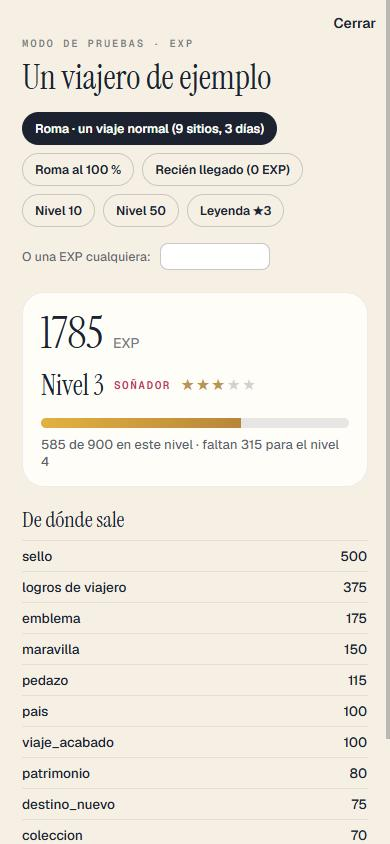
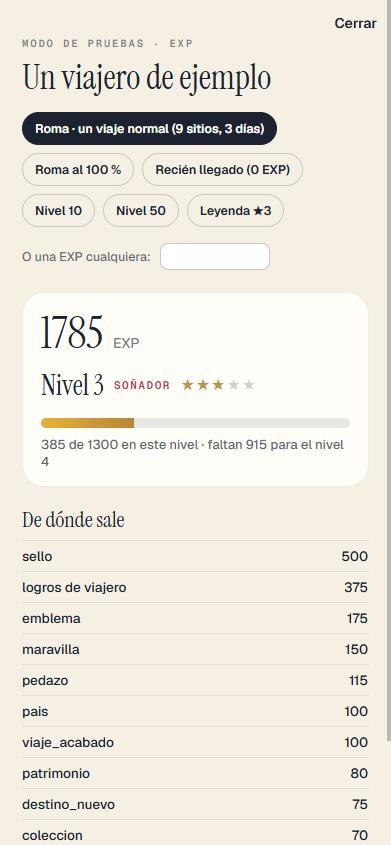
feat(logros): EXP, costes de nivel nuevos (500, 900, 1.300, 1.700, 2.100 y 2.500 desde el nivel 6; nivel 50 en 116.500, Leyenda 1 en 119.500), pruebas con los limites nuevos, Roma nivel 3 normal y nivel 4 al 100 %, capturas del panel rehechas

diff --git a/docs/dias/INFORME_TANDA8C1.md b/docs/dias/INFORME_TANDA8C1.md
@@ -24,7 +24,7 @@ Destinos 25 «Pasión por el mundo» y 30 «Alma de explorador» · Patrimonios 
 - **Cómo se calcula:** se suma lo que ya ha conseguido el viajero (sus hechos y lo ganado): paradas vistas con ubicación o foto (5, máximo 50 al día), pedazos, colecciones (10 por pedazo), emblemas, maravillas, sellos (los del Vaticano aparte), país, destino, Patrimonio, viaje acabado (5 paradas o más y el último día ya pasado: 100) y los logros de viajero con su escalera de EXP. Los viajes de antes de la app dan 0; lo apagado, 0.
 - **Nunca baja:** la mayor EXP que ha tenido se guarda (`logro_perfil.exp_max`, migración 0025) y el total es siempre lo mayor entre lo calculado y eso. Probado: se baja la tabla y a nadie le sale menos.
 - **Con fecha:** cada EXP lleva su fecha; el servidor la tiene por año (`por_anio`) para el sorteo y la tienda.
-- **Niveles:** 50 en 10 rangos de 5 (Soñador, Explorador, Viajero, Trotamundos, Aventurero, Nómada, Cartógrafo, Embajador, Navegante, Leyenda); subir cuesta 500, 700, 900… (+200) hasta el nivel 11 y desde ahí 2.500. El nivel 50 se alcanza con 111.500 EXP; **Leyenda ★1 a los 114.500** (una estrella cada 3.000, sin final): así he entendido «después del 50».
+- **Niveles:** 50 en 10 rangos de 5 (Soñador, Explorador, Viajero, Trotamundos, Aventurero, Nómada, Cartógrafo, Embajador, Navegante, Leyenda); subir cuesta 500, 900, 1.300, 1.700 y 2.100 y, desde el nivel 6, 2.500 cada nivel (cambio de Eric, 18-oct). El nivel 50 se alcanza con 116.500 EXP; **Leyenda ★1 a los 119.500** (una estrella cada 3.000, sin final): así he entendido «después del 50».
 - **Lo que manda el servidor al móvil:** `GET /api/logros/exp` y `estado` → EXP total, nivel, rango, estrellas, EXP dentro del nivel, coste del nivel y lo que falta. En cada Visto o foto: `exp` por momento, `sube_de_nivel` por momento, y `exp` de la respuesta (`ganada`, `antes`, `despues`, `sube_de_nivel`). El móvil ya sabe leerlo; **no hay pantalla** (llegará con Design).
 - **Invitaciones:** la regla está hecha y probada (100 EXP al que invita cuando su amigo **acaba su primer viaje**, no al crear la cuenta; máximo 10 al año, por año natural). Falta lo de abajo.
 - **Sorteo (solo la regla):** nivel 3 o más y al menos un viaje acabado ese año. En `/?admin=logros`, pestaña **Sorteo**: cuántos entran y la lista, solo con el id corto de cada cuenta (ningún nombre ni correo).
@@ -50,7 +50,7 @@ Destinos 25 «Pasión por el mundo» y 30 «Alma de explorador» · Patrimonios 
 ## Las cuentas de EXP de Roma
 Con la tabla de `EXP_Y_NIVELES.md` tal cual (mismas funciones en la prueba y en el panel):
 - **Un viaje normal** (3 días y 2 noches, 9 sitios: Coliseo, Foro, Trevi, Panteón, Navona, Plaza de España, Museos Vaticanos, San Pedro y su plaza, con foto en todos): **1.785 EXP, nivel 3** (de 1.200 a 2.099). El documento decía «unos 1.400, nivel 3»: el nivel sale igual; la cifra es mayor porque con 9 sitios ya sale el sello de Roma en oro y el del Vaticano en diamante (500), los emblemas (175), los dos países (100) y 375 de logros de viajero (Escapada, El fotógrafo, {Ciudad} {año} y los primeros escalones), más 100 del viaje acabado. Desglose: sellos 500 · logros de viajero 375 · emblemas 175 · maravilla 150 · pedazos 115 · países 100 · viaje acabado 100 · Patrimonios 80 · destino 75 · colecciones 70 · paradas 45.
-- **Roma al 100 %** (los 37 sitios de las colecciones y los emblemas, con Madrugador y Nocturno, un viaje de 10 noches): **3.930 EXP, nivel 5** (el 5 empieza en 3.200). El documento decía «unos 2.870, nivel 4». Desglose: pedazos 260 · colecciones 520 · sellos 700 · emblemas 300 · países 100 · destino 75 · maravilla 150 · Patrimonios 80 = **2.185** (lo que el documento cuenta seguro); + logros de viajero **1.450** (Cazador de emblemas y Coleccionista, 5 y 10: 500; Conocedor 25: 175; Diamante a la primera 150; {Ciudad} al completo 100; Gran viaje 100; De sol a sol 100; El fotógrafo 75; Dos países en un día 50; {Ciudad} {año} 50; y 25 de cada primer escalón de Países, Destinos, Maravillas, Patrimonios, Viajes y Con quién viajas: 150) + paradas vistas **195** (39 paradas) + viaje acabado **100**. Los 685 que el documento le deja sobre 2.185 no cubren todos esos logros; si «Roma al 100 %» no debe incluir Cazador, Coleccionista, Conocedor y los demás, dímelo y lo ajusto en `exp.json`.
+- **Roma al 100 %** (los 37 sitios de las colecciones y los emblemas, con Madrugador y Nocturno, un viaje de 10 noches): **3.930 EXP, nivel 4** (el 4 va de 2.700 a 4.399). El documento decía «unos 2.870, nivel 4». Desglose: pedazos 260 · colecciones 520 · sellos 700 · emblemas 300 · países 100 · destino 75 · maravilla 150 · Patrimonios 80 = **2.185** (lo que el documento cuenta seguro); + logros de viajero **1.450** (Cazador de emblemas y Coleccionista, 5 y 10: 500; Conocedor 25: 175; Diamante a la primera 150; {Ciudad} al completo 100; Gran viaje 100; De sol a sol 100; El fotógrafo 75; Dos países en un día 50; {Ciudad} {año} 50; y 25 de cada primer escalón de Países, Destinos, Maravillas, Patrimonios, Viajes y Con quién viajas: 150) + paradas vistas **195** (39 paradas) + viaje acabado **100**. Los 685 que el documento le deja sobre 2.185 no cubren todos esos logros; si «Roma al 100 %» no debe incluir Cazador, Coleccionista, Conocedor y los demás, dímelo y lo ajusto en `exp.json`.
 - **Sin el continente ni «Todos los secretos»** (apagados), como pedías.
 
 ## Lo que falta para las invitaciones
@@ -65,7 +65,7 @@ La regla, la tabla (`logro_referidos`) y las funciones están hechas y probadas,
 
 ## Capturas nuevas (`docs/dias/capturas_8b/`)
 - `8C1-ademas-logros-de-viajero-dibujos-nuevos.jpg`: «Y además…» con cinco logros de viajero (Pasión por el mundo, Viajero de ida y vuelta, Ojo de lince, Tres ciudades de oro, Las cuatro estaciones).
-- `8C1-exp-roma-viaje-normal-nivel-3.jpg` y `8C1-exp-roma-al-100-nivel-5.jpg`: el modo de pruebas con la EXP, el nivel y el rango.
+- `8C1-exp-roma-viaje-normal-nivel-3.jpg` y `8C1-exp-roma-al-100-nivel-4.jpg`: el modo de pruebas con la EXP, el nivel y el rango.
 La prueba sigue fallando si dos capturas son idénticas.
 
 ## Pruebas
@@ -77,7 +77,10 @@ La prueba sigue fallando si dos capturas son idénticas.
 ## Riesgos
 - La EXP se calcula en cada Visto/foto y al pedirla, leyendo todos los hechos de la cuenta; hoy sobra, con miles de cuentas convendría guardar los totales. El sorteo recorre todas las cuentas con hechos (pensado para el panel de Eric, no para el móvil).
 - «Nunca baja» se apoya en `exp_max`; sin la migración 0025 aplicada no se guarda el máximo (se calcula desde los hechos, que no desaparecen).
-- «Leyenda ★1» a los 114.500 es mi lectura de «después del 50»; si quieres la primera estrella nada más llegar al 50, es un cambio en `exp.json`/`nivelDeExp`.
+- «Leyenda ★1» a los 119.500 (3.000 tras el 50) es mi lectura de «después del 50»; si quieres la primera estrella nada más llegar al 50, es un cambio en `exp.json`/`nivelDeExp`.
 - Si se cambia la tabla a la baja, el que la cruce ve en pantalla EXP «ganada» menor que la de los momentos (el total no baja, el de los momentos sí es el de la tabla nueva).
 - El conversor de piezas es mío (no el de Design): lo comprueba la prueba (mismas animaciones, sin internet), pero no he comparado pixel a pixel con el Dashboard.
 - Sin probar en un móvil real ni con Supabase real.
+
+## Cambio posterior: costes de los niveles
+Costes nuevos en `data/logros/exp.json`: 500, 900, 1.300, 1.700, 2.100 y 2.500 desde el nivel 6 (niveles: 2 en 500, 3 en 1.400, 4 en 2.700, 5 en 4.400, 6 en 6.500, 50 en 116.500, Leyenda ★1 en 119.500). Roma: viaje normal 1.785 EXP (nivel 3) y al 100 % 3.930 (nivel 4). `pruebaLogros1`: 433/0. Capturas del panel de la EXP rehechas.

diff --git a/docs/dias/EXP_Y_NIVELES.md b/docs/dias/EXP_Y_NIVELES.md
@@ -31,7 +31,9 @@ Decidido por Eric. En la versión 1 solo cuentan los logros con la etiqueta VERS
   Los nombres son una propuesta. Se puede guiñar a Phileas Fogg o a «La vuelta al mundo», pero nunca usar «Willy Fog», que tiene dueño.
 - **Cada rango tiene su marco**, y cada nivel le añade una estrella (de 1 a 5) y lleva su número.
 - **Después del 50:** Leyenda ★1, ★2…, una estrella cada 3.000 EXP, sin final.
-- **Lo que cuesta cada nivel:** 500, 700, 900… (200 más cada vez) hasta el nivel 11. Desde ahí, todos piden 2.500.
+- **Lo que cuesta cada nivel (Eric, 18-oct):** 500, 900, 1.300, 1.700, 2.100 (400 más cada vez) y, desde el nivel 6, todos piden 2.500.
+  - Para llegar: nivel 2 con 500 EXP, nivel 3 con 1.400, nivel 4 con 2.700, nivel 5 con 4.400, nivel 6 con 6.500 y nivel 7 con 9.000.
+  - Con las cuentas de la 8C1: un viaje normal a Roma (1.785) queda en el nivel 3 y Roma al 100 % (3.930) en el nivel 4.
 - **Así sale:**
   - un viaje normal a Roma, nivel 3;
   - Roma al 100 %, nivel 4;
@@ -103,4 +105,8 @@ Roma al 100 %: unos 2.870 EXP en la versión 1 (sin el continente ni «Todos los
 - La pantalla de subir de nivel y la de cambiar de rango.
 - La tienda (las cosas por rango).
 - La página del sorteo.
-- Dónde se ve la EXP ganada: en el resumen del día y en el del viaje.
+- **Dónde se ve la EXP ganada (Eric, 18-oct):**
+  - **No** en el resumen del día.
+  - La animación de la EXP va flotando en la parte de abajo de la pantalla, sin tapar [Seguir], la barra de abajo ni el botón flotante de los logros.
+  - **Una sola vez, al volver a la app (Eric, 18-oct):** nada de EXP durante las sorpresas ni durante las películas (Emblema Oculto, maravilla del mundo y «El final de las 7 maravillas»). Cuando se acaban y vuelve a verse la app, sale una sola animación con toda la EXP ganada sumada (por ejemplo, «+405 EXP»). Si con eso se sube de nivel, sale también ahí.
+  - Falta por decidir si sale en el resumen del viaje.
